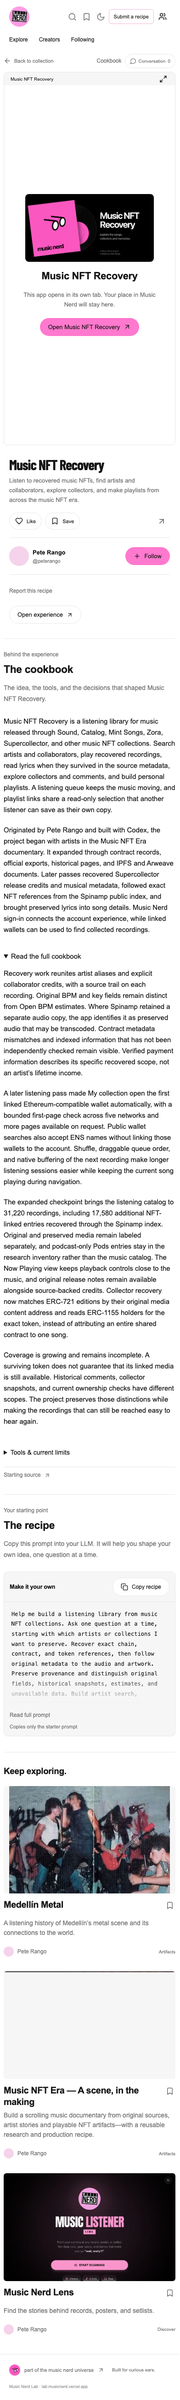
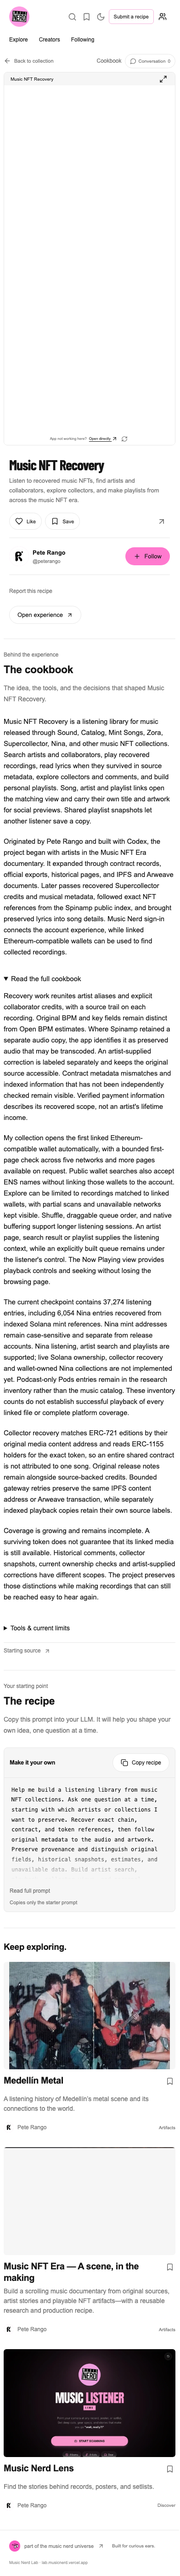
Document verified Nina sharing release and Lab publication

diff --git a/docs/lab-submission-plan.md b/docs/lab-submission-plan.md
@@ -1,32 +1,35 @@
 # Music NFT Recovery on Music Nerd Lab
 
-Status: **published, updated, and independently verified** on November 6, 2026 at 10:38 UTC. Pete explicitly authorized the original submission and the later update after merging to main.
+Status: **published cookbook update, independently verified** on November 6, 2026 at 19:48 UTC. Pete authorized updating the existing listing after the new main release.
 
 Public listing: https://lab.musicnerd.net/peterango/music-nft-recovery .
 
-## Current published listing
+## Preserved listing identity and presentation
 
-- ID: `music-nft-recovery`; creator: `peterango` / **Pete Rango**. The existing listing was updated; no duplicate was created.
-- Name: **Music NFT Recovery**.
-- Launch: https://web3-music-repo.vercel.app/ .
-- Source: https://github.com/xdjs/web3-music-repo/tree/main .
-- Cover: https://web3-music-repo.vercel.app/lab-cover-v2.png — the approved 1200×630 Music Nerd cover, matching the deployment's social image.
-- Category: Artifacts. External launch mode; no camera or microphone permissions.
-- Cookbook: explicit “Originated by Pete Rango” credit, the documentary-to-contract recovery process, current listening/lyrics/playlist/account features, Supercollector and Spinamp recovery, source distinctions, and incomplete coverage. It makes no complete-discography or lifetime-income claim.
-- Starter recipe: a short adaptable prompt, beginning with the artists or collections to preserve. It remains distinct from the project's actual creation narrative.
+- ID `music-nft-recovery`; creator `peterango`, with explicit **Originated by Pete Rango** credit.
+- Launch https://web3-music-repo.vercel.app/ ; source https://github.com/xdjs/web3-music-repo/tree/main .
+- The current thumbnail is https://raw.githubusercontent.com/xdjs/music-nerd-lab/ae9d01386a15de69c0333d633bd560e15cf883f0/public/social/music-nft-recovery-web-v3.png .
+- Category Artifacts, embedded mode, no requested camera/microphone permissions.
+- Only cookbook/About changed. Name, description, starter recipe, thumbnail, embedded mode, tools, source, launch URL, permissions and published status were preserved exactly.
 
-## API and persistence verification
+An immediate pre-publication read found a separate 19:42 UTC update had changed the thumbnail and embedded mode. The old local draft was corrected to preserve that newer state, and a second read immediately before publication confirmed it had not changed again. No duplicate listing was created.
 
-Updated through `PUT https://lab.musicnerd.net/api/recipes` using the existing creator-scoped publishing key. The [public API documentation](https://lab.musicnerd.net/recipe-api.md) documents this route; `/api/protocols` is a compatibility alias. Creator identity comes from the key; the payload does not supply `creator` or `owner_id`. No key was printed, committed, rotated, or revoked.
+## Updated cookbook
 
-The API returned HTTP200 with `id=music-nft-recovery`, `creator=peterango`, `status=published`, and `updated_at=2026-11-06T10:37:42.600764+00:00`. An independent read-only database SELECT confirmed the exact launch URL, new cover, main source URL, category, external mode, status, and explicit originator credit. Stored cookbook and starter-recipe hashes match the submitted text.
+The cookbook describes the 37,274-entry checkpoint, including 6,054 Nina entries; source-indexed Solana mint identity and unavailable Solana ownership support; song, artist and playlist social links; wallet-matched Explore filtering; contextual queues; source-preserving gateway fallback; separately indexed audio copies; and the distinct artist-supplied correction. It retains incomplete-coverage and sampled-playback limitations. The reusable starter recipe remains unchanged.
 
-The separate `music-nft-era` documentary retains its original URL, cover, source, and update timestamp `2026-11-05T23:54:12.202521+00:00`. No Lab source or schema was changed. The ignored `work/lab-submission/` folder contains the payload and submission helper; credentials remain outside source control.
+## API and independent verification
 
-## Rendered and deployment verification
+The update used `PUT https://lab.musicnerd.net/api/recipes` with the existing creator-scoped publishing key. The API returned HTTP 200, `creator=peterango`, `status=published`, and `updated_at=2026-11-06T19:46:38.494244+00:00`. No credential was logged or committed, and no database or Lab source/schema was changed.
 
-Updated only after production deployment `dpl_EzRjTGwjs26ny3bDyrUvDJnF1uEr` from merged main commit `e3458a1e29ff581dded2a90c0c6b19e454fa5548` passed the real live catalog, lyrics, artist portrait, login-modal, shared-playlist and audio checks.
+An independent read-only SELECT confirmed the new cookbook and exact equality of every non-cookbook field with the immediate pre-publication row. Evidence: `data/lab-update-persistence.json`.
 
-The public Lab page was then opened and visually inspected at 1440 and 390px. Its new cover loads, the launch button targets the live recovery app, the source link targets main, and the expanded cookbook, originator credit, and starter recipe render correctly. Lab's existing page measures 392px document width at a 390px viewport; that minor Lab layout issue was not changed as part of this recovery app update.
+The public cookbook, Pete Rango originator credit, starter recipe and main source link were checked in the browser at 1440 and 390px. The embedded iframe points to the correct live app. The initial captured iframe area was blank, but a bounded follow-up inspection confirmed the recovery homepage and catalog loaded after additional time. Embedded login remains limited: the Privy authentication frame rejected the Lab ancestor under its current `frame-ancestors` policy, and a wallet-provider probe raised a cross-origin `window.ethereum` SecurityError. No auth settings were changed. This verification does **not** establish embedded login or playback; the direct recovery app passed its separate production checks. See `data/lab-embed-inspection.json`. Lab's existing mobile document width is 392px at a 390px viewport; the Lab layout was not changed.
 
-Evidence: `data/lab-update-persistence.json`, `data/lab-submission-verification.json`, and `captures/lab-listing-{1440,390}.png`. The first publication at 09:57 UTC used the prior homepage screenshot and recovery branch; this update supersedes those listing fields.
+Rendered evidence: `data/lab-submission-verification.json`, `captures/lab-listing-1440.png`, `captures/lab-listing-390.png`. The independently changed thumbnail is verified in persistence; embedded mode displays the app frame instead of the old thumbnail hero.
+
+## Release verified before publication
+
+Deployment `dpl_7uT6F78Wq8syoHRHUMW4BZJHAJia`, main commit `3a79a4d58a7fe16b475991b867fdbb34d7e4910e`, stable URL https://web3-music-repo.vercel.app . Four entity share routes returned specific social metadata and opened their matching app pages without autoplay. All four light/dark 1440/390 share landing captures were visually inspected. CAMPFIRE's local portrait loaded; the corrected Planet X MP4 returned matching byte-range content. Endless and Army of Love both decoded and advanced using their exact verified preserved-copy CIDs. These are bounded samples, not whole-catalog playback certification.
+
+Evidence: `data/production-share-pages-verification.json`, `data/production-preserved-copy-verification.json`, and corresponding production captures. The full frozen-source suite passed 269 tests before deployment.

diff --git a/docs/RECOVERY-HANDOFF.md b/docs/RECOVERY-HANDOFF.md
@@ -2,9 +2,9 @@
 
 Updated November 6, 2026. Created and originated by **Pete Rango**. This is the separate recovery/listening app, not the Music NFT Era documentary.
 
-## Current local release candidate (not yet deployed)
+## Latest production release — Nina, sharing and collection filters
 
-Branch `codex/nina-and-queue` adds 6,054 Nina records through Spinamp: 27,449 Spinamp imports and 37,274 catalog records. The remaining 169 index queries still fail upstream; this is a representative NFT mapping per track, not an all-edition census. Nina playback samples, provenance, filters and chain guards passed. Solana wallet ownership remains unsupported.
+PR #6, merged at `3a79a4d58a7fe16b475991b867fdbb34d7e4910e`, adds 6,054 Nina records through Spinamp: 27,449 Spinamp imports and 37,274 catalog records. The remaining 169 index queries still fail upstream; this is a representative NFT mapping per track, not an all-edition census. Nina playback samples, provenance, filters and chain guards passed. Solana wallet ownership remains unsupported.
 
 Song, artist and recovered-playlist Share controls now use server-visible `/share/...` routes with entity-specific OG/Twitter metadata. Personal playlist snapshots use `/share/mix/...`; old hash links remain readable. Native share, copy and manual-copy fallbacks are covered. Actual previews in social apps still depend on their crawlers and caching.
 
@@ -16,9 +16,9 @@ The exact Lens release now has an explicitly labeled index snapshot of 13 wallet
 
 Endless and Army of Love now use exact-identity-bound Spinamp playback copies that passed native decode/advancement tests; original chain metadata and Arweave media remain unchanged and visible in Provenance. Endless's preserved WAV is about 77.7MB, so this is not a claim of compression or a complete streaming-delivery optimization. Same-transaction Arweave gateway fallback also passed real playback checks.
 
-Final unit suite: 269 passed; syntax, formatting and production build pass. Collection/account integration QA used controlled fixtures; real signed-in wallet completeness and social-app preview caching remain user-facing verification boundaries. Instagram Stories export is explicitly deferred until after this production checkpoint. Update the publication receipt after deployment.
+Final unit suite: 269 passed; syntax, formatting and production build pass. Collection/account integration QA used controlled fixtures; real signed-in wallet completeness and social-app preview caching remain user-facing verification boundaries. Instagram Stories export is explicitly deferred until after this production checkpoint. Production is READY at https://web3-music-repo.vercel.app/ (deployment `dpl_7uT6F78Wq8syoHRHUMW4BZJHAJia`). See `data/release-nina-sharing-2026-11-06.json`. Live catalog/Nina counts and the 13-wallet Lens snapshot were verified. No deployment-scoped error/fatal logs were returned in the post-release ten-minute query.
 
-## Current publication
+## Previous production publication (superseded by PR #6)
 
 - Repository: https://github.com/xdjs/web3-music-repo — PR #5 merged at `927dcf1737e9d1298e19ece34d09a88d30f45ef1`, deployed from that exact clean commit.
 - Live: https://web3-music-repo.vercel.app/ — READY deployment `dpl_2eYRpYzzPZEyoDujAeXEiYw7BiDH`.
